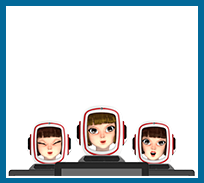
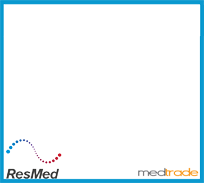
frame update
frame update

Changed region(s): [[0.0, 0.0, 1.0, 1.0]]

diff --git a/Contents/Selfie/index.html b/Contents/Selfie/index.html
@@ -153,8 +153,8 @@
 					<li><img src="Images/btn_nor_retake_en-us.png" id="retake-photo" alt="다시촬영하기" onclick="Retake()"></li>
 				</ul>
 				<dl class="photo_frame">
-					<!--<dd><img src="Images/btn_frame02.png" alt="프레임1" onclick="SelectFrame(2)"></dd>
-					<dd><img src="Images/btn_frame03.png" alt="프레임2" onclick="SelectFrame(3)"></dd>
+					<dd><img src="Images/btn_frame02.png" alt="프레임1" onclick="SelectFrame(2)"></dd>
+					<!--<dd><img src="Images/btn_frame03.png" alt="프레임2" onclick="SelectFrame(3)"></dd>
 					<dd><img src="Images/btn_frame08.png" alt="프레임3" onclick="SelectFrame(8)"></dd>-->
 				</dl>
 

diff --git a/Contents/Selfie/Styles/Css/PhotoPrinting.css b/Contents/Selfie/Styles/Css/PhotoPrinting.css
@@ -1,6 +1,6 @@
 html{height: 1600px;}
 
-#container{height: 958px !important;}
+#container{height: 1110px !important;}
 #container #contents {position: relative; height: 1180px;}
 #container #contents .photo_btn {position: absolute; display: block; float: left; margin-top: -14px;margin-left: 232px;}
 #container #contents .photo_btn  li {float: left;}
@@ -39,7 +39,7 @@ canvas  {
 }
 
 .pannel {
-	margin-top: 185px;
+	margin-top: 30px;
 	
 	text-align: center;
 }
